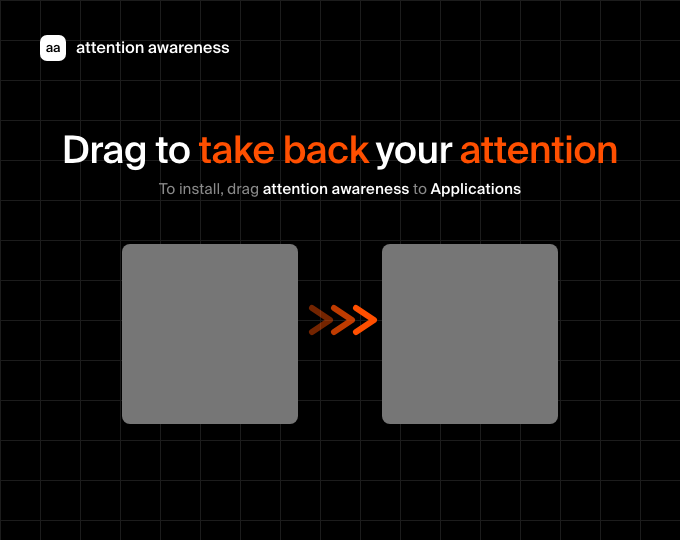
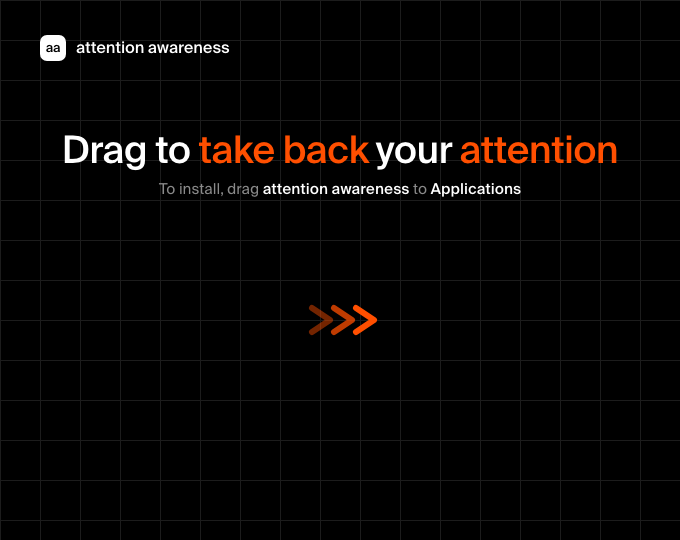
feat(mac): the dmg window is black, with no tiles

Changed region(s): [[0.1544, 0.4444, 0.4632, 0.8], [0.5559, 0.4444, 0.8338, 0.8]]

diff --git a/apps/mac/scripts/dmg-background.html b/apps/mac/scripts/dmg-background.html
@@ -9,19 +9,18 @@
    files the page falls back to the system font.
 
    The colours are the site's dark theme (packages/ui/src/theme.css) and its
-   one accent (packages/ui/src/accent.stylex.ts). */
+   one accent (packages/ui/src/accent.stylex.ts).
+
+   Finder draws the two icon labels itself, black when the Mac is in light
+   appearance, so there they do not show on the black ground. The line under
+   the headline names both icons. */
 @font-face{font-family:'Suisse';font-weight:400;src:url('fonts/SuisseIntl-Regular.woff2') format('woff2')}
 @font-face{font-family:'Suisse';font-weight:500;src:url('fonts/SuisseIntl-Medium.woff2') format('woff2')}
 :root{
   --ground:#000000;--ink:#ffffff;--muted:#8a8a8a;--border:#3f3f3f;--accent:#ff4f00;
-  /* Finder draws the two icon labels itself, black when the Mac is in light
-     appearance and white in dark, whatever the picture behind them. So each
-     icon and its label sit on a tile of the one gray that both read on:
-     4.5:1 against white and 4.6:1 against black. */
-  --tile:#767676;
-  /* Where Finder puts the icons. Keep in step with icon_locations and
-     icon_size in dmg-settings.py. */
-  --app-x:210px;--applications-x:470px;--icon-y:320px;--icon:120px;
+  /* The height Finder puts the icons at, which the arrow sits on. Keep in
+     step with icon_locations in dmg-settings.py. */
+  --icon-y:320px;
 }
 html,body{margin:0;padding:0}*{box-sizing:border-box}
 #c{position:relative;width:680px;height:540px;overflow:hidden;background:var(--ground);
@@ -39,10 +38,6 @@ html,body{margin:0;padding:0}*{box-sizing:border-box}
 #sub{position:absolute;top:176px;left:0;width:680px;text-align:center;color:var(--muted);
    font-weight:400;font-size:15px}
 #sub b{color:var(--ink);font-weight:500}
-/* The icon, 16px of air around it, and room below for a label of two lines. */
-.tile{position:absolute;top:calc(var(--icon-y) - var(--icon) / 2 - 16px);
-   width:calc(var(--icon) + 56px);height:calc(var(--icon) + 60px);margin-left:calc(var(--icon) / -2 - 28px);
-   border-radius:8px;background:var(--tile)}
 #chev{position:absolute;left:0;top:calc(var(--icon-y) - 24px);width:680px;text-align:center}
 #title .acc{color:var(--accent)}
 </style></head><body>
@@ -51,8 +46,6 @@ html,body{margin:0;padding:0}*{box-sizing:border-box}
     <div id="logo"><div class="mark">aa</div><div class="wm">attention awareness</div></div>
     <div id="title">Drag to <span class="acc">take back</span> your <span class="acc">attention</span></div>
     <div id="sub">To install, drag <b>attention awareness</b> to <b>Applications</b></div>
-    <div class="tile" style="left:var(--app-x)"></div>
-    <div class="tile" style="left:var(--applications-x)"></div>
     <div id="chev">
       <svg width="88" height="48" viewBox="0 0 88 48" fill="none">
         <g stroke="#ff4f00" stroke-width="6" stroke-linecap="round" stroke-linejoin="round" fill="none">

diff --git a/apps/mac/scripts/dmg-settings.py b/apps/mac/scripts/dmg-settings.py
@@ -11,10 +11,9 @@ symlinks = {"Applications": "/Applications"}
 # own bookkeeping files are pushed far off canvas so users with "show hidden
 # files" enabled never see them in the install window.
 #
-# The art draws a gray tile behind each icon and the arrow between them, so the
-# two positions and icon_size below are repeated at the top of
-# dmg-background.html (--app-x, --applications-x, --icon-y, --icon). Change
-# them in both places, then run scripts/render-dmg-background.sh.
+# The art draws the arrow between the two icons, at the height repeated at the
+# top of dmg-background.html (--icon-y). Change it in both places, then run
+# scripts/render-dmg-background.sh.
 icon_locations = {
     appname: (210, 320),
     "Applications": (470, 320),
@@ -37,8 +36,8 @@ size = None
 window_rect = ((180, 100), (680, 552))
 icon_size = 120
 # Finder draws the labels itself: black in light appearance, white in dark, and
-# nothing here can set the colour or hide them. The art is black, so the gray
-# tiles are what keep a black label readable.
+# nothing here can set the colour. The art is black, so in light appearance the
+# labels do not show. The art names both icons in its own text.
 text_size = 12
 
 # dmgbuild picks up dmg-background@2x.png automatically when it sits beside this.

diff --git a/apps/mac/README.md b/apps/mac/README.md
@@ -397,11 +397,12 @@ Gatekeeper stops a dmg that is not notarized on every Mac but this one.
 The picture behind the dmg window is `scripts/dmg-background.png` and its
 `@2x` twin, both tracked, and dmgbuild joins them into one retina picture. They
 are drawn by `scripts/dmg-background.html`: black, like the site in its dark
-theme, with a gray tile behind each icon, because Finder draws the icon labels
-black in light appearance and white in dark and only a mid gray reads under
-both. After a change to the html, run `bash scripts/render-dmg-background.sh`
-and commit the two pictures. The icon positions live in
-`scripts/dmg-settings.py` and again at the top of the html.
+theme. The icon labels are Finder's: it draws them black in light appearance,
+so there they do not show on the black ground, and the picture names both icons
+in its own text. After a change to the html, run
+`bash scripts/render-dmg-background.sh` and commit the two pictures. The icon
+positions live in `scripts/dmg-settings.py`, and the height of the row again
+at the top of the html.
 
 ## Auto-update
 
